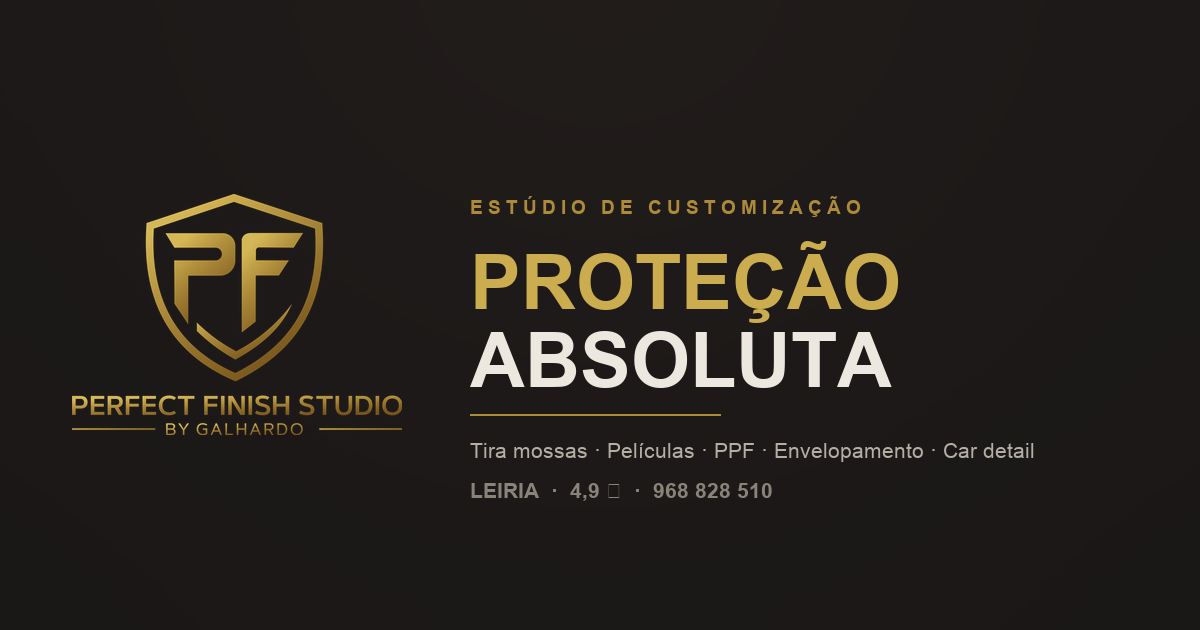
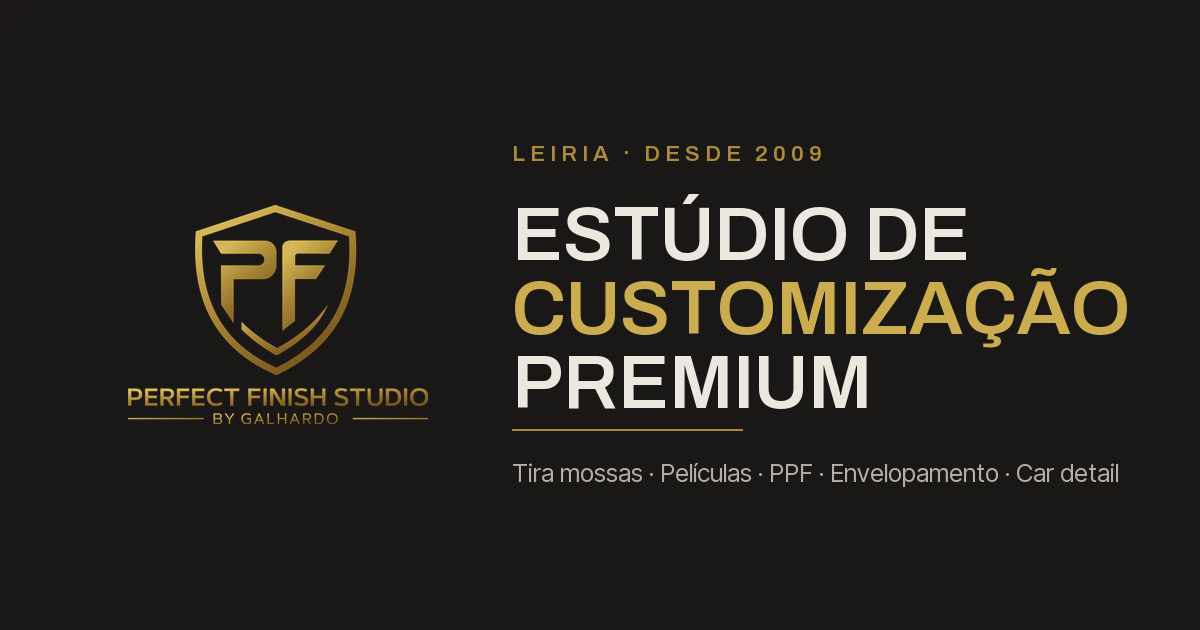
Cartão de partilha: fora a nota, as avaliações e o telefone
A pedido, e o cartão passa a ter script — existia como ficheiro feito à mão, sem
nada que o gerasse. Foi por isso que ficou com dois defeitos que ninguém corrigia:
o slogan «PROTEÇÃO ABSOLUTA», que saiu do site há muito, e a estrela a sair como
QUADRADO VAZIO, porque a fonte não tem esse glifo.

Saiu «4,9 ★ · 968 828 510». Em vez disso, o sobrescrito passa a «LEIRIA · DESDE
2009»: é verdade, é útil, e não envelhece sozinho como uma nota escrita à mão.
O título passa a acompanhar o site — «Estúdio de Customização Premium» — em vez
do slogan antigo. Isto vai além do pedido, mas deixar no cartão de partilha um
slogan que não existe em sítio nenhum do site era pior do que corrigi-lo.

A descrição da página inicial também perdeu «4,9 ★ em 94 avaliações no Google»:
aparecia no mesmo cartão, e eram números escritos à mão. A nota real continua na
secção de avaliações, que vem dos dados.

O script usa as fontes REAIS do site. Estão em woff2, que o Pillow não lê, e são
convertidas com o fontTools numa pasta temporária — assim o cartão não fica com
uma fonte substituta que não é a da marca.

O tamanho do título não é escolhido a olho: mede-se a linha mais larga e reduz-se
até caber, com uma asserção a travar se não couber. Saiu a 76 px, com 618 px de
624 disponíveis. E o logótipo desceu de 340 para 300 px, porque a 340 a palavra
«STUDIO» tocava na coluna do texto.
Bloco centrado por medição: 146 px de tinta acima, 144 abaixo. A primeira conta
[…]

diff --git a/scripts/social.py b/scripts/social.py
@@ -1,0 +1,154 @@
+#!/usr/bin/env python3
+"""Desenha o cartão de partilha (og.png), 1200x630.
+
+É a imagem que aparece no WhatsApp, no Facebook e no X quando alguém partilha o
+endereço do site. Existia como ficheiro feito à mão, sem script — ninguém sabia
+refazê-la, e por isso ficou com o slogan «PROTEÇÃO ABSOLUTA» muito depois de
+esse slogan ter saído do site, e com a estrela a sair como quadrado vazio,
+porque a fonte não tem esse glifo.
+
+Usa as fontes REAIS do site. Estão em woff2, que o Pillow não lê, portanto
+converte-se com o fontTools para TTF numa pasta temporária. Assim o cartão não
+fica com uma fonte substituta que não é a da marca.
+
+NÃO leva a nota do Google, o número de avaliações nem o telefone: foi pedido que
+saíssem. Também não leva números escritos à mão que envelheçam sozinhos.
+
+Correr:  python3 scripts/social.py   (depois de scripts/logotipo.py)
+"""
+
+from __future__ import annotations
+
+import tempfile
+from pathlib import Path
+
+from fontTools.ttLib import TTFont
+from PIL import Image, ImageDraw, ImageFont
+
+RAIZ = Path(__file__).resolve().parent.parent
+MARCA = RAIZ / "assets" / "img" / "marca"
+FONTES = RAIZ / "assets" / "fonts"
+
+L, A = 1200, 630
+TINTA = (0x1A, 0x17, 0x17)
+ELEVADO = (0x2B, 0x26, 0x26)
+OSSO = (0xED, 0xE8, 0xDF)
+OSSO_MEIO = (0xB5, 0xAE, 0xA3)
+OURO = (0xAC, 0x8A, 0x39)
+OURO_ALTO = (0xCB, 0xAD, 0x4F)
+
+# O sobrescrito NÃO repete «Perfect Finish Studio»: isso já está escrito no
+# logótipo ao lado, e repeti-lo gastava a única linha pequena do cartão.
+SOBRESCRITO = "LEIRIA · DESDE 2009"
+TITULO = ["ESTÚDIO DE", "CUSTOMIZAÇÃO", "PREMIUM"]
+SERVICOS = "Tira mossas · Películas · PPF · Envelopamento · Car detail"
+
+# A COLUNA DO TEXTO. O tamanho do título não é escolhido a olho: mede-se a
+# linha mais larga e reduz-se até caber, com uma asserção a travar o resto. É o
+# que impede o cartão de sair com uma palavra encostada à margem se alguém
+# mudar as palavras.
+COLUNA_X = 512
+COLUNA_FIM = 1136
+
+
+def ttf(pasta: Path, nome: str) -> Path:
+    """woff2 → ttf, porque o Pillow não abre woff2."""
+    destino = pasta / f"{nome}.ttf"
+    f = TTFont(FONTES / f"{nome}.woff2")
+    f.flavor = None
+    f.save(destino)
+    return destino
+
+
+def espacado(texto: str, espaco: float) -> str:
+    """Espaçamento entre letras à mão: o Pillow não tem letter-spacing."""
+    return espaco and (" " * 0).join(texto) or texto
+
+
+def escreve_espacado(d, xy, texto, fonte, cor, espaco):
+    x, y = xy
+    for c in texto:
+        d.text((x, y), c, font=fonte, fill=cor)
+        x += d.textlength(c, font=fonte) + espaco
+    return x
+
+
+def main() -> None:
+    with tempfile.TemporaryDirectory() as tmp:
+        p = Path(tmp)
+        archivo = ttf(p, "archivo-latin")
+        inter = ttf(p, "inter-tight-latin")
+        f_sobre = ImageFont.truetype(archivo, 22)
+        f_serv = ImageFont.truetype(inter, 25)
+
+        img = Image.new("RGB", (L, A), TINTA)
+        d = ImageDraw.Draw(img)
+
+        # Fundo: um foco quente vindo do canto superior esquerdo, como as
+        # luminárias hexagonais da oficina. Feito por camadas de elipses, não
+        # por gradiente linear, para não parecer um degradé de folha de cálculo.
+        luz = Image.new("L", (L, A), 0)
+        pin = ImageDraw.Draw(luz)
+        for i in range(70, 0, -1):
+            r = max(L, A) * 1.15 * i / 70
+            pin.ellipse([-L * 0.25 - r / 2, -A * 0.5 - r / 2,
+                         -L * 0.25 + r / 2, -A * 0.5 + r / 2],
+                        fill=int(46 * (1 - i / 70) ** 1.6))
+        img = Image.composite(Image.new("RGB", (L, A), ELEVADO), img, luz)
+        d = ImageDraw.Draw(img)
+
+        # O logótipo à esquerda. 300 e não 340: a 340 a palavra «STUDIO» do
+        # logótipo chegava aos 460 px e tocava na coluna do texto.
+        logo = Image.open(MARCA / "logotipo-1600.png").convert("RGBA")
+        logo.thumbnail((300, 300), Image.LANCZOS)
+        img.paste(logo, (128, (A - logo.height) // 2), logo)
+
+        # O corpo do título: o maior que faça a linha mais larga caber na coluna.
+        largura = COLUNA_FIM - COLUNA_X
+        corpo = 84
+        while corpo > 40:
+            f = ImageFont.truetype(archivo, corpo)
+            if max(d.textlength(l, font=f) for l in TITULO) <= largura:
+                break
+            corpo -= 2
+        f_tit = ImageFont.truetype(archivo, corpo)
+        maior = max(d.textlength(l, font=f_tit) for l in TITULO)
+        assert maior <= largura, f"o título não cabe: {maior:.0f} px em {largura}"
+        print(f"   título a {corpo} px; linha mais larga {maior:.0f} de {largura} px")
+
+        passo = int(corpo * 0.98)
+        # Bloco centrado na vertical: sobrescrito + título + filete + serviços.
+        # A conta tem de incluir TUDO, incluindo a altura da linha dos
+        # serviços: sem ela o bloco saía 40 px acima do centro (medido).
+        alturaSobre = 52
+        alturaFilete = 14 + 2 + 28
+        alturaServicos = f_serv.getbbox(SERVICOS)[3]
+        alturaBloco = alturaSobre + len(TITULO) * passo + alturaFilete + alturaServicos
+        y = (A - alturaBloco) // 2
+        x = COLUNA_X
+
+        escreve_espacado(d, (x, y), SOBRESCRITO, f_sobre, OURO, 5.0)
+        y += 52
+
+        for i, linha in enumerate(TITULO):
+            d.text((x, y), linha, font=f_tit, fill=OURO_ALTO if i == 1 else OSSO)
+            y += passo
+
+        y += 14
+        d.line([(x, y), (x + 230, y)], fill=OURO, width=2)
+
+        y += 28
+        d.text((x, y), SERVICOS, font=f_serv, fill=OSSO_MEIO)
+        fimServicos = d.textlength(SERVICOS, font=f_serv)
+        assert x + fimServicos <= COLUNA_FIM + 12, "a linha dos serviços passa a margem"
+
+        img.save(MARCA / "og.png", optimize=True)
+        k = (MARCA / "og.png").stat().st_size / 1024
+        print(f"→ og.png  {L}x{A}  {k:.1f} kB")
+        for proibido in ("4,9", "★", "968", "PROTEÇÃO ABSOLUTA"):
+            assert proibido not in " ".join([SOBRESCRITO, *TITULO, SERVICOS]), proibido
+        print("   sem nota, sem avaliações, sem telefone, sem o slogan antigo")
+
+
+if __name__ == "__main__":
+    main()
